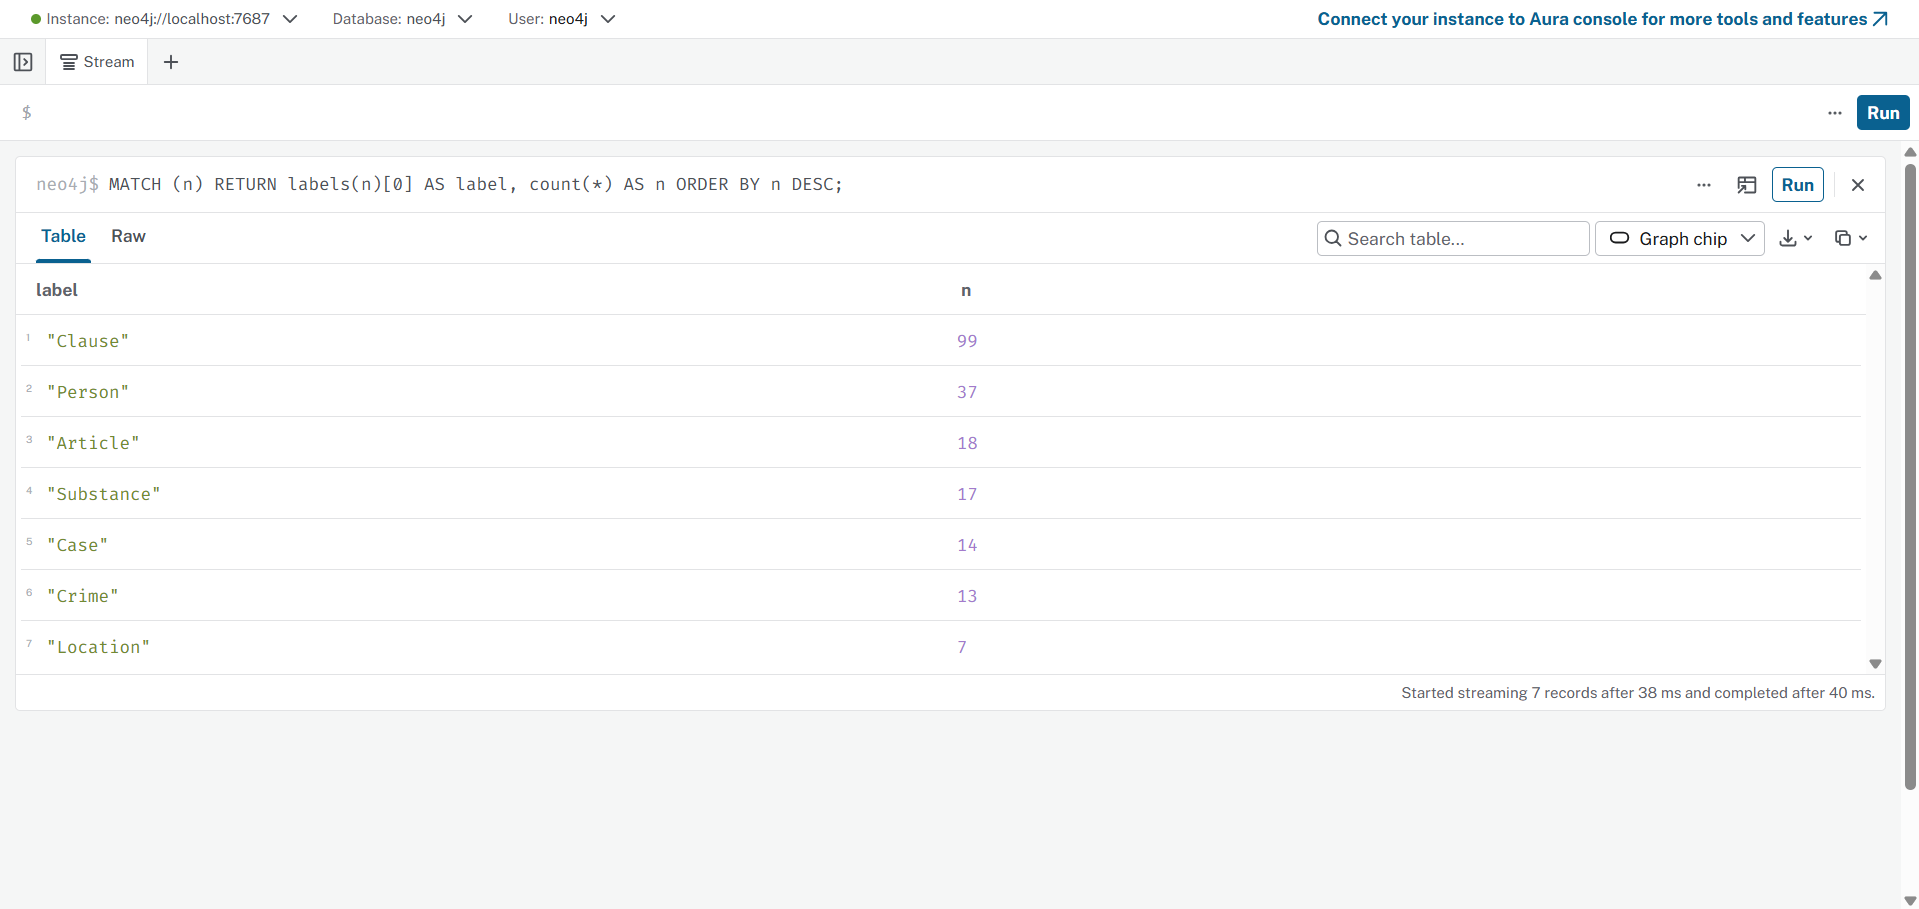
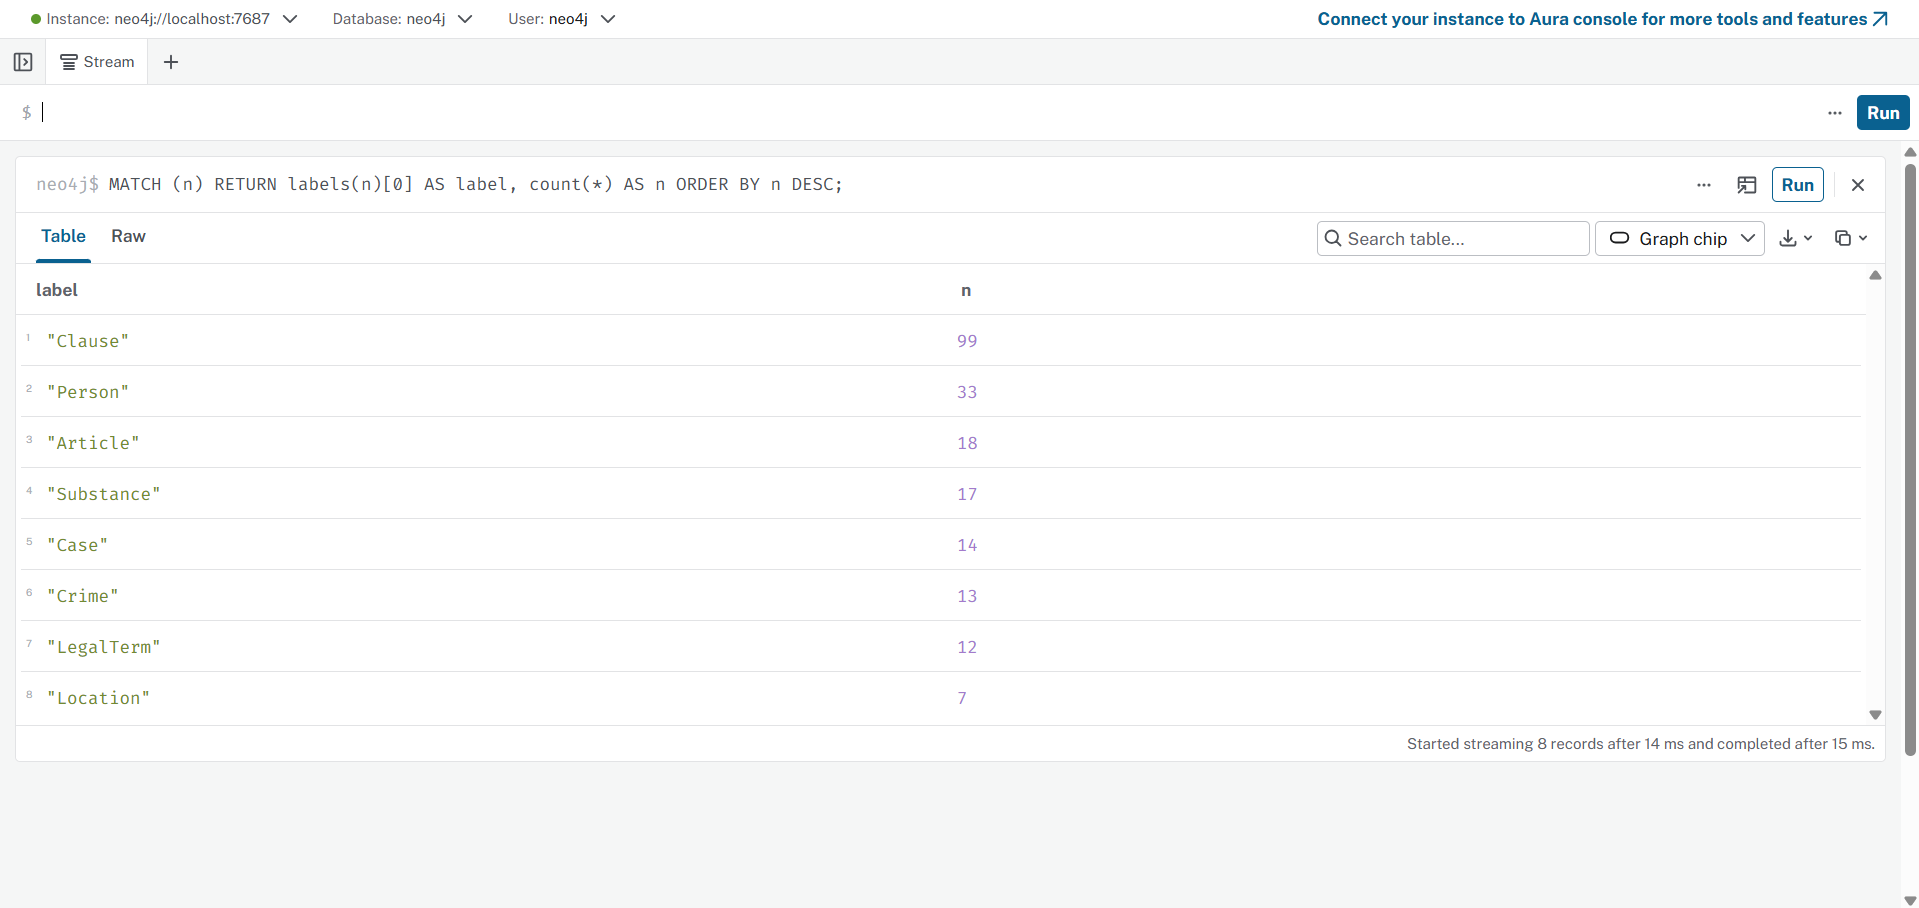
feat(ontology): upgrade ontology with direct liability and record improved benchmark (213 nodes)

diff --git a/src/graph.py b/src/graph.py
@@ -32,10 +32,35 @@ from .models import Document
 from .store import EmbeddingStore
 
 # Canonical substance names: the ones BLHS Chương XX lists, plus common ones in Vietnamese news.
+# Canonical substance names: the ones BLHS Chương XX lists, plus common ones in Vietnamese news.
 SUBSTANCES = ["Heroine", "Cocaine", "Methamphetamine", "Amphetamine", "MDMA", "XLR-11", "Ketamine",
               "cần sa", "thuốc phiện", "côca"]
 CLAUSE_START = re.compile(r"^(\d+)\.\s", re.MULTILINE)
 FOOTNOTE = re.compile(r"\[\d+\]")
+
+# Bảng ánh xạ tên đồng nghĩa / tiếng lóng sang tên chuẩn
+SUBSTANCE_SYNONYMS = {
+    "thuốc lắc": "MDMA",
+    "kẹo": "MDMA",
+    "ma túy đá": "Methamphetamine",
+    "đá": "Methamphetamine",
+    "hồng phiến": "Amphetamine",
+    "cỏ mỹ": "cần sa",
+    "tài mà": "cần sa",
+    "bồ đà": "cần sa",
+    "bạch phiến": "Heroine",
+}
+
+def find_substances(text: str) -> list[str]:
+    lowered = text.lower()
+    found = set()
+    for name in SUBSTANCES:
+        if name.lower() in lowered:
+            found.add(name)
+    for syn, canon in SUBSTANCE_SYNONYMS.items():
+        if syn in lowered:
+            found.add(canon)
+    return sorted(found)
 
 def load_markdown_docs(folder: str | Path) -> list[Document]:
     """Read crawler output (.md with a flat `key: "value"` front matter) into Documents."""
@@ -61,24 +86,25 @@ def link_entity(name: str, known: list[str], normalize: Callable[[str], str] = n
     if not norm_name:
         return None
 
+    # Ánh xạ từ chuỗi đã chuẩn hóa -> chuỗi gốc trong known
     norm_to_orig: dict[str, str] = {}
     for k in known:
         nk = normalize(k)
         if nk and nk not in norm_to_orig:
             norm_to_orig[nk] = k
 
+    # 1. Khớp chính xác sau khi chuẩn hóa
     if norm_name in norm_to_orig:
         return norm_to_orig[norm_name]
 
+    # 2. Khớp mờ (fuzzy match) với ngưỡng tương đồng cutoff=0.8
     matches = difflib.get_close_matches(norm_name, list(norm_to_orig.keys()), n=1, cutoff=0.8)
     if matches:
         return norm_to_orig[matches[0]]
 
     return None
 
-def find_substances(text: str) -> list[str]:
-    lowered = text.lower()
-    return [name for name in SUBSTANCES if name.lower() in lowered]
+
 
 # ----------------------------------------------------------------------------------------------
 # HINT — suggested ontology: extraction helpers
@@ -86,11 +112,15 @@ def find_substances(text: str) -> list[str]:
 
 def parse_law_article(doc: Document) -> dict[str, Any]:
     """Deterministic (regex) extraction for one 'Điều' — law text is regular enough to skip the LLM."""
-    article_id = doc.metadata["article"]                       # "Điều 251 BLHS"
-    title = doc.metadata["title"].split(". ", 1)[-1]           # "Tội mua bán trái phép chất ma túy"
+    article_id = doc.metadata.get("article", doc.id)           # "Điều 251 BLHS"
+    title_raw = doc.metadata.get("title", "")
+    title = title_raw.split(". ", 1)[-1] if ". " in title_raw else title_raw
     body = FOOTNOTE.sub("", doc.content)
     starts = list(CLAUSE_START.finditer(body))
     clauses = []
+    terms = []
+
+    # Trích xuất các khoản
     for index, start in enumerate(starts):
         end = starts[index + 1].start() if index + 1 < len(starts) else len(body)
         text = body[start.start():end].strip()
@@ -103,6 +133,17 @@ def parse_law_article(doc: Document) -> dict[str, Any]:
             "text": text,
             "substances": find_substances(text),
         })
+
+    # Nếu là điều luật giải thích định nghĩa (như Luật Phòng chống ma túy Điều 2)
+    term_matches = re.findall(r"(?:^|\n)\d+\.\s*([^\n:]+?)\s+là\s+([^\n]+)", body)
+    for term_name, term_def in term_matches:
+        t_clean = term_name.strip(" *\"'“”").lower()
+        if len(t_clean) <= 40:
+            terms.append({
+                "name": t_clean,
+                "definition": f"{term_name.strip()} là {term_def.strip()}",
+            })
+
     return {
         "id": article_id,
         "law": doc.metadata.get("law", ""),
@@ -110,11 +151,14 @@ def parse_law_article(doc: Document) -> dict[str, Any]:
         "doc_id": doc.id,
         "crime": normalize_crime(title) if title.startswith("Tội ") else None,
         "clauses": clauses,
+        "terms": terms,
+        "max_clause_number": max((c["number"] for c in clauses), default=1),
     }
 
 NEWS_EXTRACTION_PROMPT = """Bạn trích xuất knowledge graph từ một bài báo tiếng Việt về ma túy.
 Chỉ dùng thông tin có trong bài. Trả về JSON đúng dạng:
-{{"cases": [{{"name": "tên ngắn của vụ việc, ví dụ: Vụ mua bán 36kg ma túy tại TP.HCM",
+{{"cases": [{{
+  "name": "tên ngắn của vụ việc, ví dụ: Vụ mua bán 36kg ma túy tại TP.HCM",
   "summary": "1-2 câu tóm tắt",
   "date": "ngày xảy ra/xét xử nếu có, dạng YYYY-MM-DD hoặc chuỗi rỗng",
   "location": "tỉnh/thành phố, chuỗi rỗng nếu không rõ",
@@ -221,13 +265,13 @@ class Neo4jGraph:
 
     def suggested_constraints(self) -> None:
         for label, key in [("Article", "id"), ("Clause", "id"), ("Crime", "name"), ("Case", "name"),
-                           ("Substance", "name"), ("Person", "name"), ("Location", "name")]:
+                           ("Substance", "name"), ("Person", "name"), ("Location", "name"), ("LegalTerm", "name")]:
             self.run(f"CREATE CONSTRAINT IF NOT EXISTS FOR (n:{label}) REQUIRE n.{key} IS UNIQUE")
 
     def add_law_article(self, article: dict) -> None:
         self.run(
             """
-            MERGE (a:Article {id: $id}) SET a.title =$title, a.law = $law, a.doc_id =$doc_id
+            MERGE (a:Article {id: $id}) SET a.title = $title, a.law = $law, a.doc_id = $doc_id, a.max_clause = $max_clause_number
             FOREACH (crime IN CASE WHEN $crime IS NULL THEN [] ELSE [$crime] END |
                 MERGE (c:Crime {name: crime}) MERGE (a)-[:DEFINES]->(c))
             WITH a
@@ -235,16 +279,31 @@ class Neo4jGraph:
             MERGE (cl:Clause {id: clause.id})
               SET cl.number = clause.number, cl.penalty = clause.penalty, cl.text = clause.text, cl.doc_id = $doc_id
             MERGE (a)-[:HAS_CLAUSE]->(cl)
+            FOREACH (_ IN CASE WHEN clause.number = $max_clause_number THEN [1] ELSE [] END |
+                MERGE (a)-[:HAS_MAX_CLAUSE]->(cl))
             FOREACH (s IN clause.substances | MERGE (sub:Substance {name: s}) MERGE (cl)-[:MENTIONS]->(sub))
+            WITH a
+            UNWIND $terms AS tm
+            MERGE (t:LegalTerm {name: tm.name})
+              SET t.definition = tm.definition, t.doc_id = $doc_id
+            MERGE (a)-[:DEFINES_TERM]->(t)
             """,
             **article,
         )
 
     def add_news_case(self, case: dict, doc: Document) -> None:
+        # Chuẩn hóa tên chất sang danh mục chuẩn nếu là từ đồng nghĩa
+        raw_subs = case.get("substances", [])
+        norm_subs = []
+        for s in raw_subs:
+            s_name = s.get("name", "")
+            canon = SUBSTANCE_SYNONYMS.get(s_name.lower(), s_name)
+            norm_subs.append({"name": canon, "amount": s.get("amount", "")})
+
         self.run(
             """
             MERGE (k:Case {name: $name})
-              SET k.summary = $summary, k.date =$date, k.doc_id = $doc_id, k.source_title =$title
+              SET k.summary = $summary, k.date = $date, k.doc_id = $doc_id, k.source_title = $title
             FOREACH (loc IN CASE WHEN $location = '' THEN [] ELSE [$location] END |
                 MERGE (l:Location {name: loc}) MERGE (k)-[:LOCATED_IN]->(l))
             FOREACH (crime IN $charges | MERGE (c:Crime {name: crime}) MERGE (k)-[:CHARGED_WITH]->(c))
@@ -252,26 +311,63 @@ class Neo4jGraph:
                 SET r.amount = s.amount)
             FOREACH (p IN $people | MERGE (person:Person {name: p.name})
                 SET person.aliases = coalesce(p.aliases, [])
-                MERGE (person)-[r:INVOLVED_IN]->(k) SET r.role = p.role, r.charge = p.charge, r.sentence = p.sentence)
+                MERGE (person)-[r:INVOLVED_IN]->(k) SET r.role = p.role, r.charge = p.charge, r.sentence = p.sentence
+                FOREACH (chg IN CASE WHEN p.charge = '' THEN [] ELSE [p.charge] END |
+                    MERGE (crime_p:Crime {name: chg})
+                    MERGE (person)-[rc:CHARGED_WITH]->(crime_p)
+                    SET rc.sentence = p.sentence, rc.role = p.role))
             """,
             name=case.get("name") or doc.metadata.get("title", doc.id),
             summary=case.get("summary", ""), date=case.get("date", ""), location=case.get("location", ""),
             charges=case.get("charges", []), people=[p for p in case.get("people", []) if p.get("name")],
-            substances=[s for s in case.get("substances", []) if s.get("name")],
+            substances=norm_subs,
             doc_id=doc.id, title=doc.metadata.get("title", ""),
         )
 
     # ---------------------------------------------------------------- KG-3
 
     def context(self, question: str, doc_ids: list[str], max_facts: int = 60) -> list[str]:
-        """Graph facts for a question: seeds + 1 hop, then the legal basis of every case reached."""
-        seed_ids, facts = self.seed_facts(question, doc_ids, limit=max_facts // 2)
-        if not seed_ids:
-            return facts
+        """Graph facts for a question: multi-hop traversal with direct liability & max penalty support."""
+        facts: list[str] = []
+        is_max_query = any(k in question.lower() for k in ["tối đa", "cao nhất", "khung cao nhất"])
+
+        # 1. Kiểm tra định nghĩa pháp lý (Giải quyết Q1)
+        term_rows = self.run(
+            """
+            MATCH (t:LegalTerm)
+            WHERE toLower($q) CONTAINS toLower(t.name)
+            RETURN t.name AS name, t.definition AS definition
+            """,
+            q=question,
+        )
+        for t in term_rows:
+            facts.append(f"[Định nghĩa pháp lý] {t['definition']}")
+
+        # 2. Truy vấn trực tiếp cá nhân để tránh nhiễu đồng phạm (Giải quyết Q3)
+        person_rows = self.run(
+            """
+            MATCH (p:Person)
+            WHERE toLower($q) CONTAINS toLower(p.name)
+            OPTIONAL MATCH (p)-[r:INVOLVED_IN]->(k:Case)
+            OPTIONAL MATCH (p)-[rc:CHARGED_WITH]->(c:Crime)<-[:DEFINES]-(a:Article)
+            RETURN p.name AS person, r.sentence AS sentence, r.role AS role, k.name AS case_name,
+                   c.name AS crime, a.id AS article_id
+            """,
+            q=question,
+        )
+        for pr in person_rows:
+            if pr.get("crime") and pr.get("sentence"):
+                facts.append(f"Bị cáo '{pr['person']}' trong '{pr['case_name']}': bị xét xử về '{pr['crime']}' ({pr.get('article_id', '')}), mức án tuyên: {pr['sentence']}")
+
+        # 3. Lấy seed facts thông thường
+        seed_ids, raw_facts = self.seed_facts(question, doc_ids, limit=max_facts // 2)
+        facts.extend(raw_facts)
+
+        # 4. Lấy tóm tắt các Case
         case_rows = self.run(
             """
             MATCH (k:Case)
-            WHERE elementId(k) IN $ids OR EXISTS { MATCH (s)--(k) WHERE elementId(s) IN$ids }
+            WHERE elementId(k) IN $ids OR EXISTS { MATCH (s)--(k) WHERE elementId(s) IN $ids }
             RETURN DISTINCT elementId(k) AS id, k.name AS name, k.summary AS summary
             """,
             ids=seed_ids,
@@ -280,33 +376,86 @@ class Neo4jGraph:
         for r in case_rows:
             if r.get("name") and r.get("summary"):
                 facts.append(f"Vụ việc '{r['name']}': {r['summary']}")
+
+        # 5. Multi-hop sang điều khoản luật tương ứng (Hỗ trợ Q4 & Q5)
         if case_ids:
             clause_rows = self.run(
                 """
                 MATCH (k:Case)-[:CHARGED_WITH]->(c:Crime)<-[:DEFINES]-(a:Article)-[:HAS_CLAUSE]->(cl:Clause)
                 WHERE elementId(k) IN $case_ids
-                  AND (cl.number = 1 OR EXISTS { MATCH (k)-[:INVOLVES]->(s:Substance)<-[:MENTIONS]-(cl) })
-                RETURN DISTINCT a.id AS article_id, a.title AS title, cl.number AS number, cl.text AS text
+                  AND (
+                    cl.number = 1
+                    OR ($is_max AND cl.number = a.max_clause)
+                    OR EXISTS {
+                      MATCH (k)-[:INVOLVES]->(s:Substance)<-[:MENTIONS]-(cl)
+                    }
+                  )
+                RETURN DISTINCT a.id AS article_id, a.title AS title, cl.number AS number, cl.text AS text, cl.penalty AS penalty
                 ORDER BY article_id, number
                 """,
-                case_ids=case_ids,
+                case_ids=case_ids, is_max=is_max_query,
             )
             for cl in clause_rows:
                 facts.append(f"[{cl['article_id']} - {cl['title']}] khoản {cl['number']}: {cl['text']}")
-        return facts[:max_facts]
+
+        # 6. Nếu câu hỏi nhắc thẳng tên Điều
+        article_matches = re.findall(r"[Đđ]iều\s+(\d+)", question)
+        if article_matches:
+            q_substances = find_substances(question)
+            article_ids = [f"Điều {m} BLHS" for m in article_matches]
+            direct_clauses = self.run(
+                """
+                MATCH (a:Article)-[:HAS_CLAUSE]->(cl:Clause)
+                WHERE a.id IN $article_ids
+                  AND (
+                    cl.number = 1
+                    OR ($is_max AND cl.number = a.max_clause)
+                    OR size($substances) = 0
+                    OR EXISTS {
+                      MATCH (cl)-[:MENTIONS]->(s:Substance)
+                      WHERE s.name IN $substances
+                    }
+                  )
+                RETURN DISTINCT a.id AS article_id, a.title AS title, cl.number AS number, cl.text AS text
+                ORDER BY a.id, cl.number
+                """,
+                article_ids=article_ids, substances=q_substances, is_max=is_max_query,
+            )
+            for cl in direct_clauses:
+                fact_str = f"[{cl['article_id']} - {cl['title']}] khoản {cl['number']}: {cl['text']}"
+                if fact_str not in facts:
+                    facts.append(fact_str)
+
+        # Loại bỏ dữ kiện trùng lặp nhưng giữ nguyên thứ tự ưu tiên
+        seen = set()
+        unique_facts = []
+        for f in facts:
+            if f not in seen:
+                seen.add(f)
+                unique_facts.append(f)
+
+        return unique_facts[:max_facts]
 
 # ---------------------------------------------------------------------------------------------- KG-2
 
 def build_graph(graph: Neo4jGraph, law_docs: list[Document], news_docs: list[Document],
                 llm_fn: Callable[..., str]) -> None:
     """Load both KBs into an empty graph. llm_fn(prompt, json_mode=False) -> str (metered OpenAI chat)."""
+    # 1. Tạo ràng buộc UNIQUE cho các khóa định danh
     graph.suggested_constraints()
+
+    # 2. Bóc tách và nạp toàn bộ văn bản Luật bằng Regex
     articles = [parse_law_article(d) for d in law_docs]
     for a in articles:
         graph.add_law_article(a)
+
+    # 3. Lấy danh sách tội danh chuẩn từ luật làm từ điển đối chiếu
     crimes = [a["crime"] for a in articles if a.get("crime")]
+
+    # 4. Trích xuất các vụ án từ tin tức bằng LLM và nạp vào Neo4j
     for d in news_docs:
-        for case in extract_news_cases(d, lambda p: llm_fn(p, json_mode=True), crimes):
+        cases = extract_news_cases(d, lambda p: llm_fn(p, json_mode=True), crimes)
+        for case in cases:
             graph.add_news_case(case, d)
 
 # ---------------------------------------------------------------------------------------------- KG-4
@@ -332,13 +481,28 @@ class GraphRAGAgent:
         self.llm_fn = llm_fn
 
     def answer(self, question: str, top_k: int = 3) -> str:
+        # 1. Vector top-k giống Flat RAG
         chunks = self.store.search(question, top_k=top_k)
-        doc_ids = []
+
+        # 2. Lấy danh sách doc_id (không trùng) từ metadata
+        doc_ids: list[str] = []
         for c in chunks:
             did = c.get("metadata", {}).get("doc_id")
             if did and did not in doc_ids:
                 doc_ids.append(did)
+
+        # 3. Mở rộng dữ kiện từ Knowledge Graph
         facts = self.graph.context(question, doc_ids)
+
+        # 4. Định dạng prompt theo chuẩn GRAPH_PROMPT
         facts_text = "\n".join(f"- {f}" for f in facts) if facts else "(không có)"
         chunks_text = "\n\n".join(f"[{i}] {chunk['content']}" for i, chunk in enumerate(chunks, start=1))
-        return self.llm_fn(GRAPH_PROMPT.format(facts=facts_text, chunks=chunks_text, question=question))
+
+        prompt = GRAPH_PROMPT.format(
+            facts=facts_text,
+            chunks=chunks_text,
+            question=question,
+        )
+
+        # 5. Gọi LLM sinh câu trả lời
+        return self.llm_fn(prompt)
